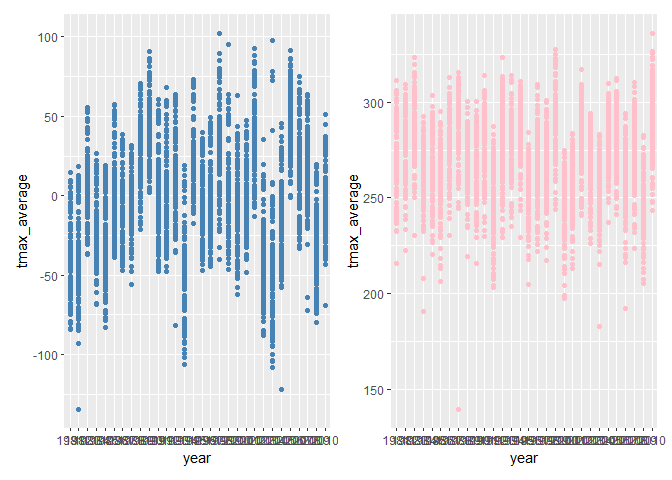
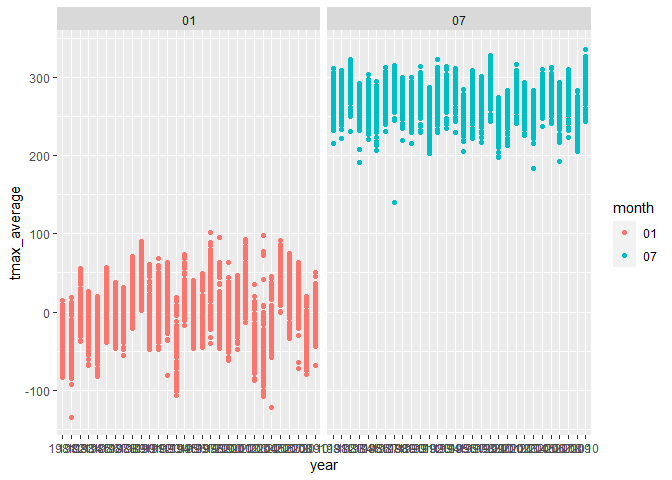
read dataset for q1

diff --git a/p8105_hw3_jc5929.md b/p8105_hw3_jc5929.md
@@ -118,33 +118,21 @@ ny_data= ny_noaa %>%
   separate(date,into=c('year','month','date'),sep='-') %>%
   mutate(tmax=as.numeric(tmax),tmin=as.numeric(tmin))
 
-jan_plot= 
+month_plot= 
     ny_data %>%
-  filter(month=='01') %>%
+  filter(month=='01'|month=='07') %>%
   drop_na(tmax) %>%
-  group_by(year,id) %>%
+  group_by(year,id,month) %>%
   summarize(tmax_average=mean(tmax)) %>%
-  ggplot(aes(x=year,y=tmax_average))+geom_point(color='steelblue')
+  ggplot(aes(x=year,y=tmax_average,color=month)) +geom_point()+
+  facet_grid(.~month)
 ```
 
-    ## `summarise()` has grouped output by 'year'. You can override using the
+    ## `summarise()` has grouped output by 'year', 'id'. You can override using the
     ## `.groups` argument.
 
 ``` r
-jul_plot=ny_data %>%
-  mutate(month=as.character(month)) %>%
-  filter(month=='07') %>%
-  drop_na(tmax) %>%
-  group_by(year,id) %>%
-  summarize(tmax_average=mean(tmax)) %>%
-  ggplot(aes(x=year,y=tmax_average))+geom_point(color='pink')
-```
-
-    ## `summarise()` has grouped output by 'year'. You can override using the
-    ## `.groups` argument.
-
-``` r
-jan_plot+jul_plot
+month_plot
 ```
 
 ![](p8105_hw3_jc5929_files/figure-gfm/unnamed-chunk-1-1.png)<!-- -->
@@ -155,9 +143,8 @@ plot1= ny_data %>%
   
 plot2 = ny_data %>%
     filter(snow>0 & snow<100) %>%
-    group_by(year) %>%
-    summarize(snowfall=sum(snow)) %>%
-    ggplot(aes(x=year,y=snowfall))+geom_col(color='steelblue')
+    ggplot(aes(x=snow,fill=year))+geom_density(alpha=0.3,adjust=0.5,
+                                               color='yellow')
  
 plot1+plot2
 ```
